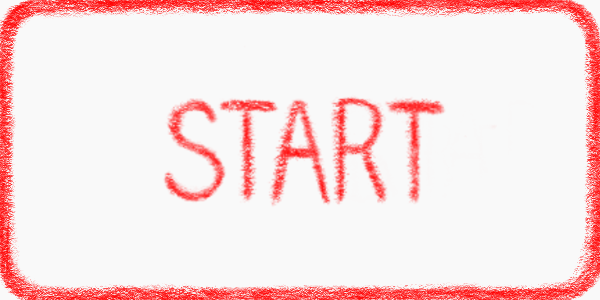
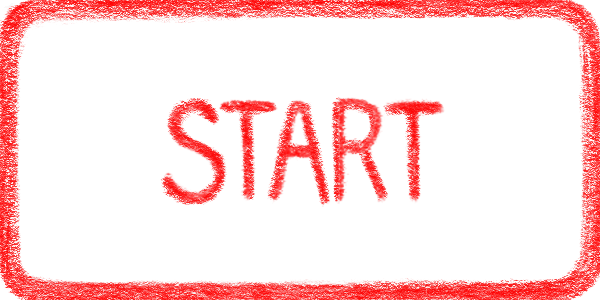
Changed start screen style

Changed region(s): [[0.0, 0.0, 1.0, 1.0], [0.27, 0.3, 0.75, 0.69], [0.03, 0.99, 0.06, 1.0]]

diff --git a/styles.scss b/styles.scss
@@ -1,8 +1,13 @@
 @import url('https://fonts.googleapis.com/css2?family=Caveat&family=Dancing+Script&family=Oooh+Baby&display=swap');
 
 
-$font-score: 'Oooh Baby', cursive;
+$font-primary: 'Oooh Baby', cursive;
+$font-secondary: 'Caveat', cursive;
 $font-instruction: 'Dancing Script', cursive;
+
+$border-primary: 1px solid #8080808b;
+
+$color-pen: #001193;
 
 
 * {
@@ -12,14 +17,16 @@ $font-instruction: 'Dancing Script', cursive;
 
 body {
     background-color: #f9f9f9;
-    font-family: $font-score;
+    font-family: $font-primary;
     font-size: 1.1rem;
 }
 
+.paper {
+    background-image: url(./images/blur-bg.png)
+}
+
 .points {
-    font-family: $font-score;
-    font-size: 1.1rem;
-    color: #001193;
+    color: $color-pen;
 }
 
 h3 {
@@ -27,7 +34,8 @@ h3 {
 }
 .game__dices img:hover,
 span:hover,
-button:hover{
+button:hover,
+.start__game:hover {
     cursor: pointer;
 }
 
@@ -37,9 +45,15 @@ button:hover{
 }
 
 .game {
+
+    height: 100%;
+    width: 100%;
+    max-width: 640px;
+    margin: auto;
+
     &__score-pad {
         height: 80vh;
-        width: 95vw;
+        width: 95%;
         text-align: center;
         margin: auto;
     }
@@ -53,7 +67,7 @@ button:hover{
 
     &__score-pad td, 
     &__score-pad th {
-        border-bottom: 1px solid grey;
+        border-bottom: $border-primary;
     }
 
     &__dices img {
@@ -63,7 +77,7 @@ button:hover{
     &__score-pad span {
         height: 12px;
         width: 12px;
-        border: 1px solid grey;
+        border: $border-primary;
         border-radius: 4px;
         display: inline-block;
         position: relative;
@@ -109,30 +123,30 @@ button:hover{
         display: inline;
         font-size: 0.9rem;
         font-family: $font-instruction;
-        color: #001193;
+        color: $color-pen;
     }
     
 }
 
 td {
-    border-right: 1px solid grey;
+    border-right: $border-primary;
     padding: 1px;
 
     &:first-child {
         width: 10%;
-        border-right: 1px solid #ff0000aa;
-        border-left: 1px solid grey;
+        border-right: 1px solid #ff00006b;
+        border-left: $border-primary;
     }
 }
 
 .locked {
     opacity: 0.6;
-    border: 3px solid #001193;
+    border: 3px solid $color-pen;
     border-radius: 12px;
 }
 
 .crossed-out {
-    text-decoration: line-through #001193 2px;
+    text-decoration: line-through $color-pen 2px;
 }
 
 input {
@@ -143,7 +157,7 @@ input {
     content: '\2714';
     position: absolute;
     font-size: 1.2rem;
-    color: #001193;
+    color: $color-pen;
     top: -7px;
     left: 0;
 }
@@ -170,13 +184,13 @@ input {
 }
 
 .start__game {
-    background-image: url(./images/Start.png);
+    // background-image: url(./images/Start.png);
     background-size: 100%;
     border: none;
     position: absolute;
     top: 70%;
     left: 32%;
-    padding: 10% 20%;
+    width: 40%;
 }
 
 
@@ -192,4 +206,34 @@ input {
     60% { transform: rotate(0eg); }
     75% { transform: rotate(8deg); }
     100% { transform: rotate(0deg); }
-  }
+}
+
+@media screen and (min-width: 500px) and (min-height: 900px){
+    body {
+        font-family: $font-secondary;
+        font-size: 1.6rem;
+    }
+    h3 {
+        font-size: 1.7rem;
+    }
+    
+    .game {
+        &__dices img {
+            height: 60px;
+        }
+
+        &__top {
+            height: 7vh;
+        }
+
+        & button {
+            width: 113px;
+            height: 47px;
+        }
+        
+        &__score-pad .instruction {
+            font-size: 1.2rem;
+        }
+    }
+    
+}

diff --git a/styles.css b/styles.css
@@ -11,9 +11,11 @@ body {
   font-size: 1.1rem;
 }
 
+.paper {
+  background-image: url(./images/blur-bg.png);
+}
+
 .points {
-  font-family: "Oooh Baby", cursive;
-  font-size: 1.1rem;
   color: #001193;
 }
 
@@ -23,7 +25,8 @@ h3 {
 
 .game__dices img:hover,
 span:hover,
-button:hover {
+button:hover,
+.start__game:hover {
   cursor: pointer;
 }
 
@@ -32,9 +35,15 @@ button:hover {
   cursor: help;
 }
 
+.game {
+  height: 100%;
+  width: 100%;
+  max-width: 640px;
+  margin: auto;
+}
 .game__score-pad {
   height: 80vh;
-  width: 95vw;
+  width: 95%;
   text-align: center;
   margin: auto;
 }
@@ -45,7 +54,7 @@ button:hover {
   margin: 15px auto;
 }
 .game__score-pad td, .game__score-pad th {
-  border-bottom: 1px solid grey;
+  border-bottom: 1px solid #8080808b;
 }
 .game__dices img {
   height: 50px;
@@ -53,7 +62,7 @@ button:hover {
 .game__score-pad span {
   height: 12px;
   width: 12px;
-  border: 1px solid grey;
+  border: 1px solid #8080808b;
   border-radius: 4px;
   display: inline-block;
   position: relative;
@@ -95,13 +104,13 @@ button:hover {
 }
 
 td {
-  border-right: 1px solid grey;
+  border-right: 1px solid #8080808b;
   padding: 1px;
 }
 td:first-child {
   width: 10%;
-  border-right: 1px solid #ff0000aa;
-  border-left: 1px solid grey;
+  border-right: 1px solid #ff00006b;
+  border-left: 1px solid #8080808b;
 }
 
 .locked {
@@ -149,13 +158,12 @@ input {
 }
 
 .start__game {
-  background-image: url(./images/Start.png);
   background-size: 100%;
   border: none;
   position: absolute;
   top: 70%;
   left: 32%;
-  padding: 10% 20%;
+  width: 40%;
 }
 
 .shaking {
@@ -183,5 +191,29 @@ input {
   }
   100% {
     transform: rotate(0deg);
+  }
+}
+@media screen and (min-width: 500px) and (min-height: 900px) {
+  body {
+    font-family: "Caveat", cursive;
+    font-size: 1.6rem;
+  }
+
+  h3 {
+    font-size: 1.7rem;
+  }
+
+  .game__dices img {
+    height: 60px;
+  }
+  .game__top {
+    height: 7vh;
+  }
+  .game button {
+    width: 113px;
+    height: 47px;
+  }
+  .game__score-pad .instruction {
+    font-size: 1.2rem;
   }
 }

diff --git a/index.html b/index.html
@@ -7,10 +7,10 @@
     <title>Document</title>
     <link rel="stylesheet" href="./styles.css">
 </head>
-<body>
+<body class="paper">
     <div class="start">
-        <img src="./yahtzee.png" alt="background" id="background-img">
-        <button class="start__game"> </button>
+        <img src="./images/yahtzee.png" alt="background" id="background-img">
+        <img class="start__game" src="./images/Start.png">
     </div>
 
     <div class="game hidden">

diff --git a/script.js b/script.js
@@ -251,6 +251,7 @@ document.querySelector(".game__again").addEventListener("click", () => {
 })
 
 document.querySelector(".start__game").addEventListener("click", () => {
+    document.querySelector("body").classList.remove("paper")
     document.querySelector(".game").classList.remove("hidden");
     document.querySelector(".start").classList.add("hidden");
     rollAllDices();
